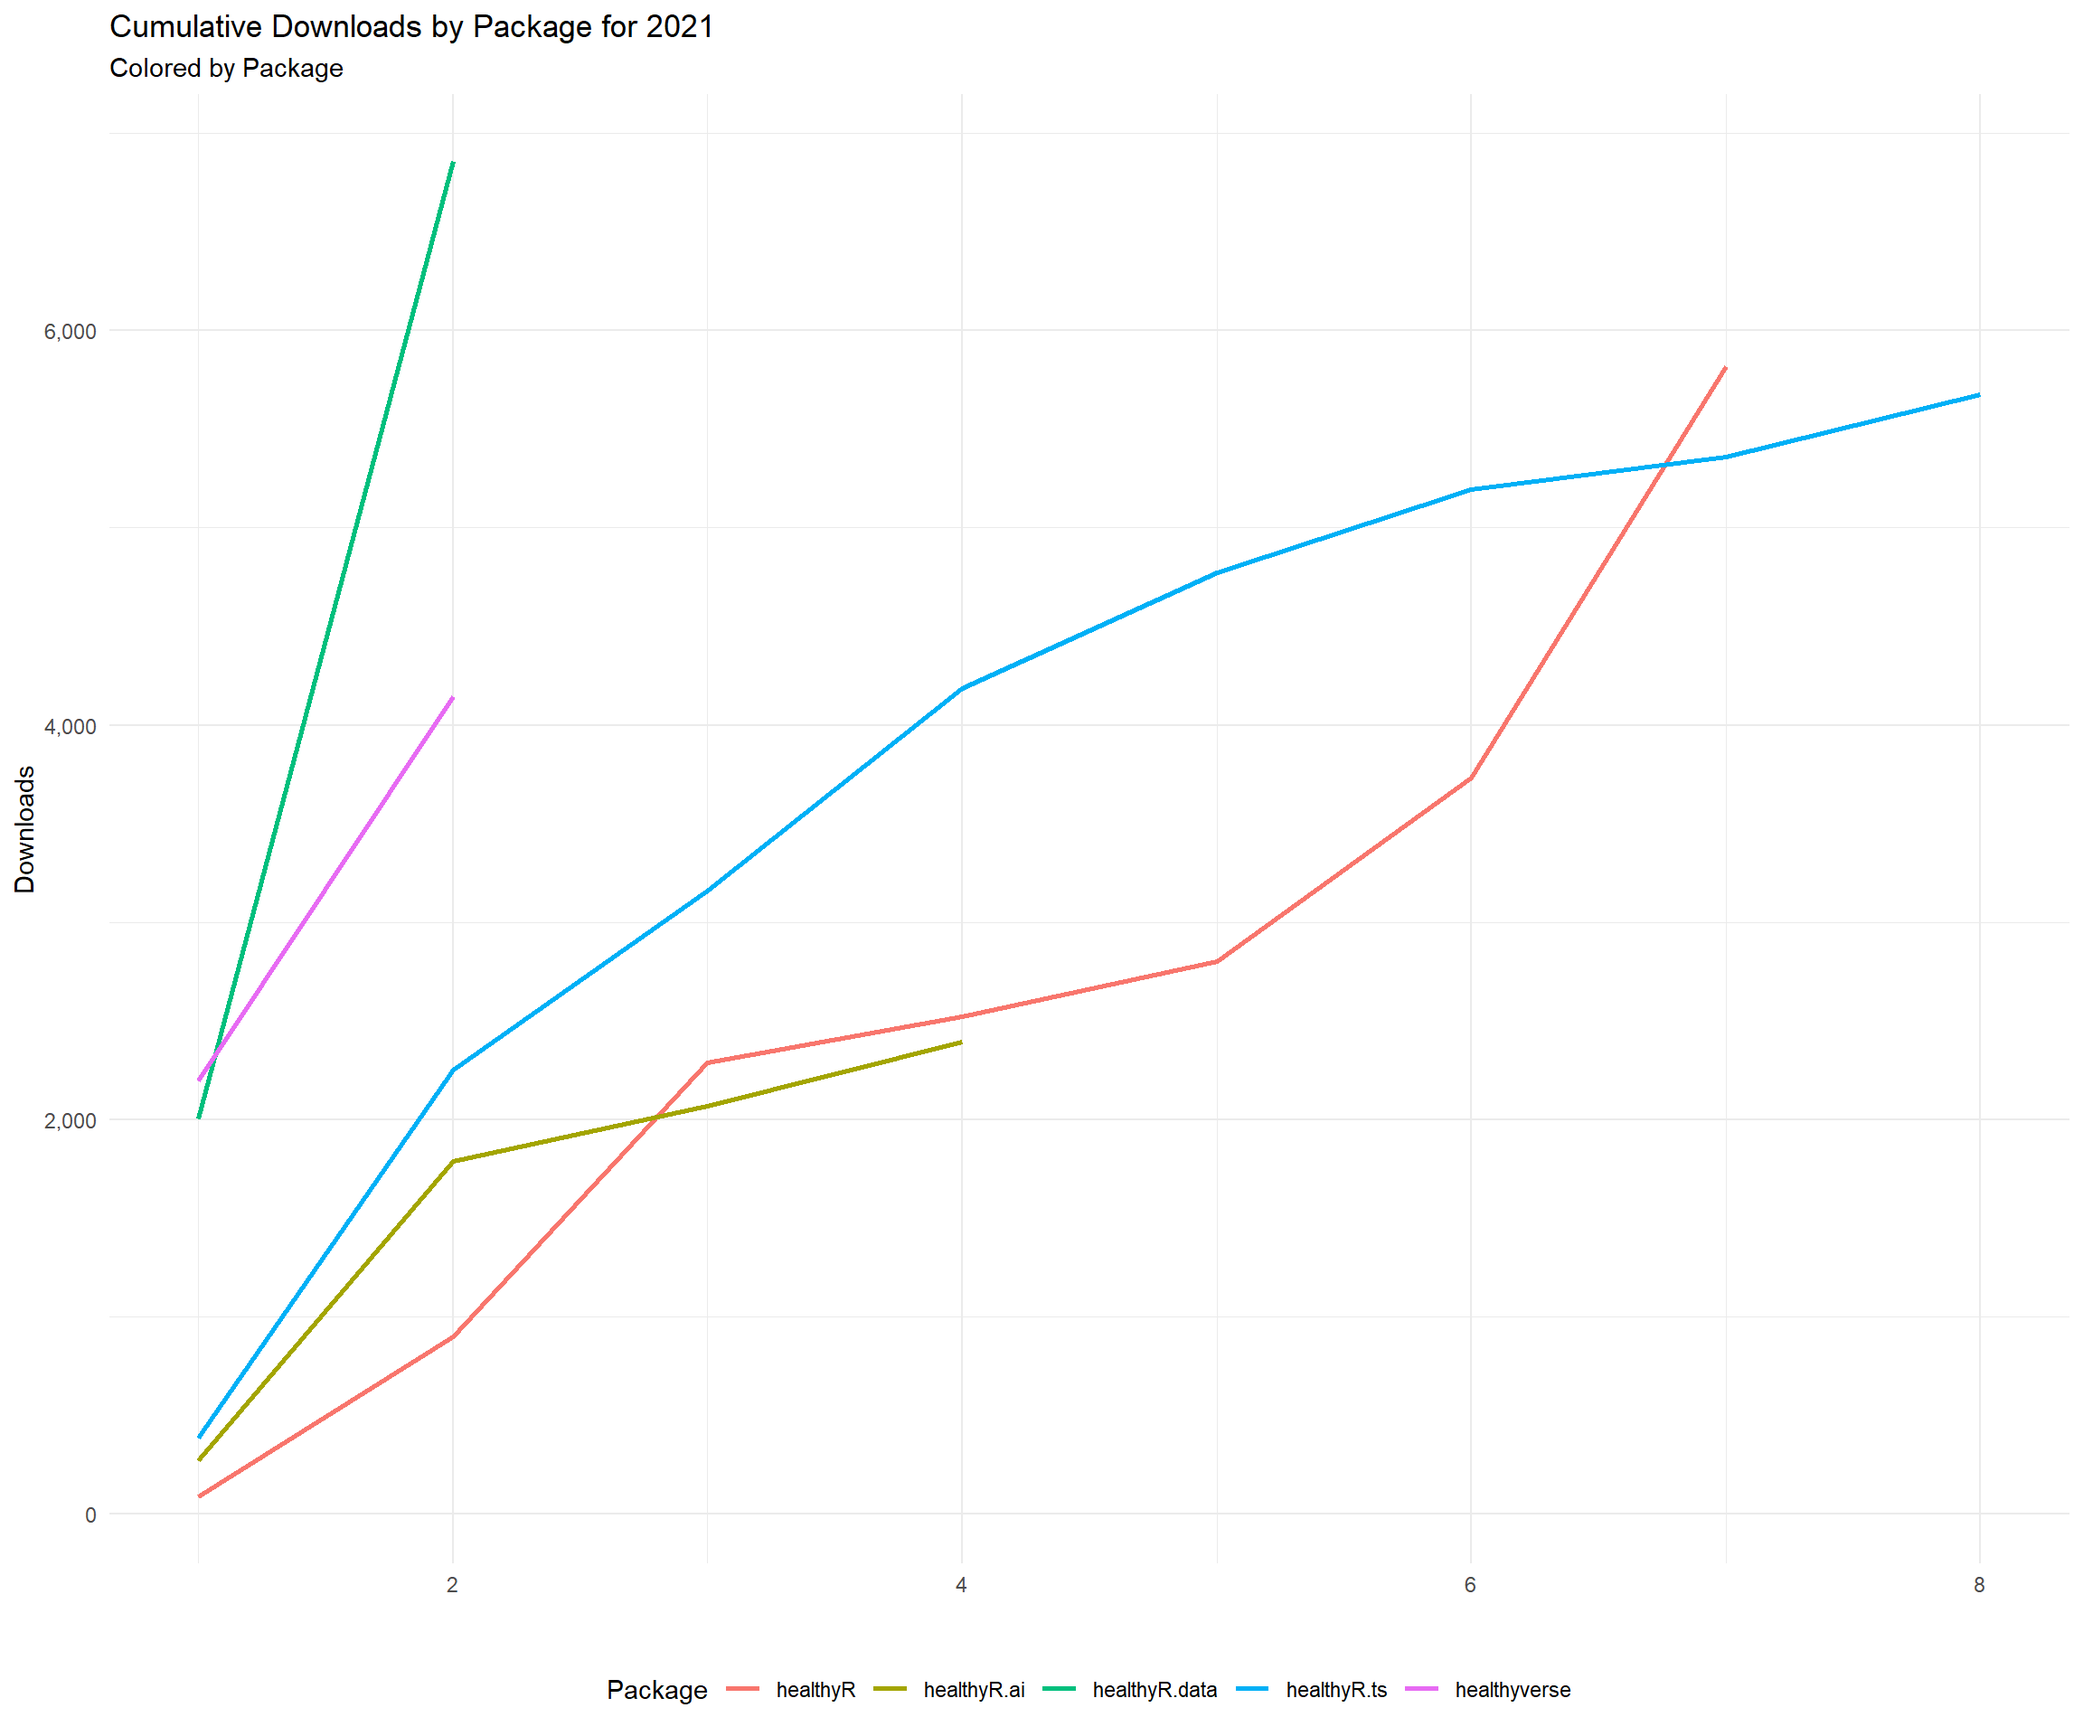
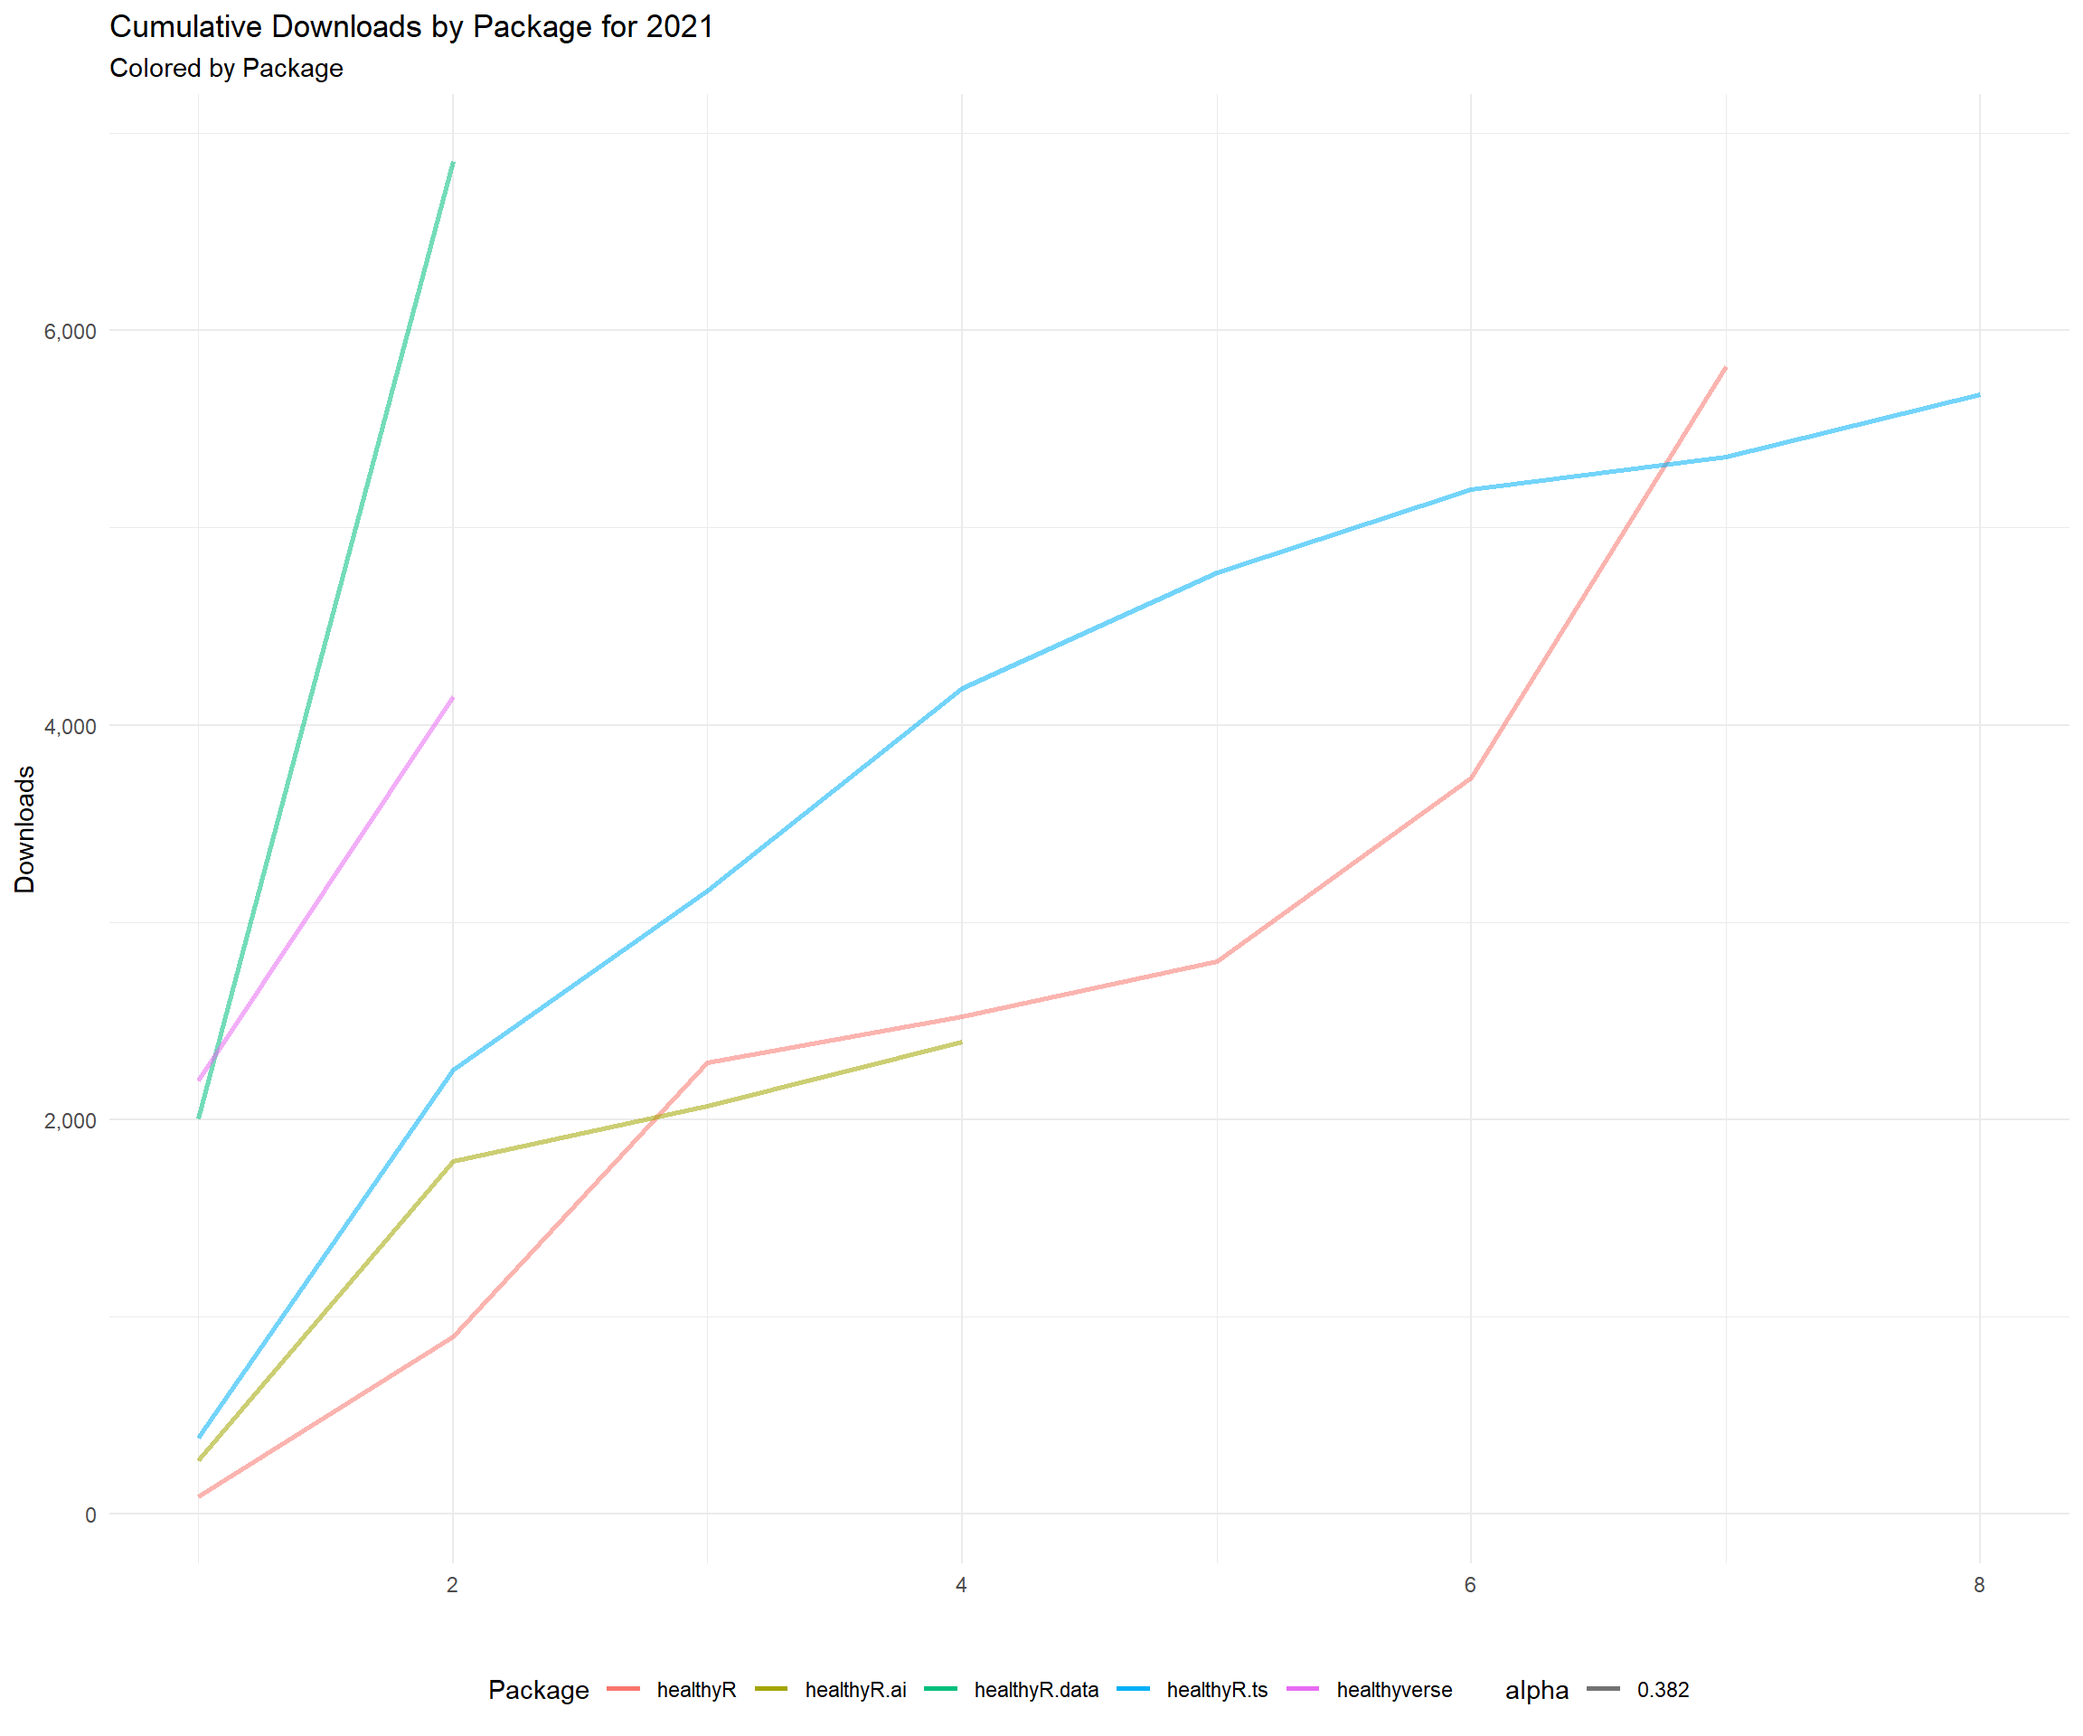
updates

diff --git a/year_review_2021.html b/year_review_2021.html
@@ -377,7 +377,7 @@ $(document).ready(function () {
 </li>
 <li class="dropdown">
   <a href="#" class="dropdown-toggle" data-toggle="dropdown" role="button" aria-expanded="false">
-    Year in Review
+    Years in Review
      
     <span class="caret"></span>
   </a>
@@ -655,8 +655,8 @@ $(document).ready(function () {
 <p>Lets graph the data out as well.</p>
 <div class="sourceCode" id="cb7"><pre class="sourceCode r"><code class="sourceCode r"><span id="cb7-1"><a href="#cb7-1" aria-hidden="true" tabindex="-1"></a>data_tbl <span class="sc">%&gt;%</span></span>
 <span id="cb7-2"><a href="#cb7-2" aria-hidden="true" tabindex="-1"></a>  <span class="fu">count</span>(package, version) <span class="sc">%&gt;%</span></span>
-<span id="cb7-3"><a href="#cb7-3" aria-hidden="true" tabindex="-1"></a>  <span class="fu">ggplot</span>(<span class="fu">aes</span>(<span class="at">x =</span> version, <span class="at">y =</span> n)) <span class="sc">+</span></span>
-<span id="cb7-4"><a href="#cb7-4" aria-hidden="true" tabindex="-1"></a>  <span class="fu">geom_col</span>(<span class="fu">aes</span>(<span class="at">group =</span> package, <span class="at">fill =</span> package, <span class="at">alpha =</span> <span class="dv">1</span><span class="fl">-.618</span>)) <span class="sc">+</span></span>
+<span id="cb7-3"><a href="#cb7-3" aria-hidden="true" tabindex="-1"></a>  <span class="fu">ggplot</span>(<span class="fu">aes</span>(<span class="at">x =</span> version, <span class="at">y =</span> n, <span class="at">alpha =</span> <span class="fl">0.382</span>)) <span class="sc">+</span></span>
+<span id="cb7-4"><a href="#cb7-4" aria-hidden="true" tabindex="-1"></a>  <span class="fu">geom_col</span>(<span class="fu">aes</span>(<span class="at">group =</span> package, <span class="at">fill =</span> package)) <span class="sc">+</span></span>
 <span id="cb7-5"><a href="#cb7-5" aria-hidden="true" tabindex="-1"></a>  <span class="fu">facet_wrap</span>(package <span class="sc">~</span>., <span class="at">ncol =</span> <span class="dv">2</span>, <span class="at">scales =</span> <span class="st">&quot;free&quot;</span>) <span class="sc">+</span></span>
 <span id="cb7-6"><a href="#cb7-6" aria-hidden="true" tabindex="-1"></a>  <span class="fu">scale_y_continuous</span>(<span class="at">labels =</span> scales<span class="sc">::</span><span class="fu">label_number</span>(<span class="at">big.mark =</span> <span class="st">&quot;,&quot;</span>)) <span class="sc">+</span></span>
 <span id="cb7-7"><a href="#cb7-7" aria-hidden="true" tabindex="-1"></a>  <span class="fu">theme_minimal</span>() <span class="sc">+</span></span>
@@ -675,8 +675,8 @@ $(document).ready(function () {
 <span id="cb8-4"><a href="#cb8-4" aria-hidden="true" tabindex="-1"></a>  <span class="fu">mutate</span>(<span class="at">cumulative_downloads =</span> <span class="fu">cumsum</span>(n)) <span class="sc">%&gt;%</span></span>
 <span id="cb8-5"><a href="#cb8-5" aria-hidden="true" tabindex="-1"></a>  <span class="fu">mutate</span>(<span class="at">record =</span> <span class="fu">row_number</span>()) <span class="sc">%&gt;%</span></span>
 <span id="cb8-6"><a href="#cb8-6" aria-hidden="true" tabindex="-1"></a>  <span class="fu">ungroup</span>() <span class="sc">%&gt;%</span></span>
-<span id="cb8-7"><a href="#cb8-7" aria-hidden="true" tabindex="-1"></a>  <span class="fu">ggplot</span>(<span class="fu">aes</span>(<span class="at">x =</span> record, <span class="at">y =</span> cumulative_downloads)) <span class="sc">+</span></span>
-<span id="cb8-8"><a href="#cb8-8" aria-hidden="true" tabindex="-1"></a>  <span class="fu">geom_col</span>(<span class="fu">aes</span>(<span class="at">group =</span> package, <span class="at">fill =</span> package, <span class="at">alpha =</span> <span class="dv">1</span><span class="fl">-.618</span>)) <span class="sc">+</span></span>
+<span id="cb8-7"><a href="#cb8-7" aria-hidden="true" tabindex="-1"></a>  <span class="fu">ggplot</span>(<span class="fu">aes</span>(<span class="at">x =</span> record, <span class="at">y =</span> cumulative_downloads, <span class="at">alpha =</span> <span class="fl">0.382</span>)) <span class="sc">+</span></span>
+<span id="cb8-8"><a href="#cb8-8" aria-hidden="true" tabindex="-1"></a>  <span class="fu">geom_col</span>(<span class="fu">aes</span>(<span class="at">group =</span> package, <span class="at">fill =</span> package)) <span class="sc">+</span></span>
 <span id="cb8-9"><a href="#cb8-9" aria-hidden="true" tabindex="-1"></a>  <span class="fu">facet_wrap</span>(package <span class="sc">~</span>., <span class="at">ncol =</span> <span class="dv">2</span>, <span class="at">scales =</span> <span class="st">&quot;free&quot;</span>) <span class="sc">+</span></span>
 <span id="cb8-10"><a href="#cb8-10" aria-hidden="true" tabindex="-1"></a>  <span class="fu">scale_y_continuous</span>(<span class="at">labels =</span> scales<span class="sc">::</span><span class="fu">label_number</span>(<span class="at">big.mark =</span> <span class="st">&quot;,&quot;</span>)) <span class="sc">+</span></span>
 <span id="cb8-11"><a href="#cb8-11" aria-hidden="true" tabindex="-1"></a>  <span class="fu">theme_minimal</span>() <span class="sc">+</span></span>
@@ -695,7 +695,7 @@ $(document).ready(function () {
 <span id="cb9-4"><a href="#cb9-4" aria-hidden="true" tabindex="-1"></a>  <span class="fu">mutate</span>(<span class="at">cumulative_downloads =</span> <span class="fu">cumsum</span>(n)) <span class="sc">%&gt;%</span></span>
 <span id="cb9-5"><a href="#cb9-5" aria-hidden="true" tabindex="-1"></a>  <span class="fu">mutate</span>(<span class="at">record =</span> <span class="fu">row_number</span>()) <span class="sc">%&gt;%</span></span>
 <span id="cb9-6"><a href="#cb9-6" aria-hidden="true" tabindex="-1"></a>  <span class="fu">ungroup</span>() <span class="sc">%&gt;%</span></span>
-<span id="cb9-7"><a href="#cb9-7" aria-hidden="true" tabindex="-1"></a>  <span class="fu">ggplot</span>(<span class="fu">aes</span>(<span class="at">x =</span> record, <span class="at">y =</span> cumulative_downloads)) <span class="sc">+</span></span>
+<span id="cb9-7"><a href="#cb9-7" aria-hidden="true" tabindex="-1"></a>  <span class="fu">ggplot</span>(<span class="fu">aes</span>(<span class="at">x =</span> record, <span class="at">y =</span> cumulative_downloads, <span class="at">alpha =</span> <span class="fl">0.382</span>)) <span class="sc">+</span></span>
 <span id="cb9-8"><a href="#cb9-8" aria-hidden="true" tabindex="-1"></a>  <span class="fu">geom_line</span>(<span class="fu">aes</span>(<span class="at">color =</span> package, <span class="at">group =</span> package), <span class="at">size =</span> <span class="dv">1</span>) <span class="sc">+</span></span>
 <span id="cb9-9"><a href="#cb9-9" aria-hidden="true" tabindex="-1"></a>  <span class="fu">scale_y_continuous</span>(<span class="at">labels =</span> scales<span class="sc">::</span><span class="fu">label_number</span>(<span class="at">big.mark =</span> <span class="st">&quot;,&quot;</span>)) <span class="sc">+</span></span>
 <span id="cb9-10"><a href="#cb9-10" aria-hidden="true" tabindex="-1"></a>  <span class="fu">theme_minimal</span>() <span class="sc">+</span></span>

diff --git a/healthyr.html b/healthyr.html
@@ -270,7 +270,7 @@ $(document).ready(function () {
 </li>
 <li class="dropdown">
   <a href="#" class="dropdown-toggle" data-toggle="dropdown" role="button" aria-expanded="false">
-    Year in Review
+    Years in Review
      
     <span class="caret"></span>
   </a>

diff --git a/healthyrai.html b/healthyrai.html
@@ -270,7 +270,7 @@ $(document).ready(function () {
 </li>
 <li class="dropdown">
   <a href="#" class="dropdown-toggle" data-toggle="dropdown" role="button" aria-expanded="false">
-    Year in Review
+    Years in Review
      
     <span class="caret"></span>
   </a>

diff --git a/healthyrdata.html b/healthyrdata.html
@@ -270,7 +270,7 @@ $(document).ready(function () {
 </li>
 <li class="dropdown">
   <a href="#" class="dropdown-toggle" data-toggle="dropdown" role="button" aria-expanded="false">
-    Year in Review
+    Years in Review
      
     <span class="caret"></span>
   </a>

diff --git a/healthyrts.html b/healthyrts.html
@@ -270,7 +270,7 @@ $(document).ready(function () {
 </li>
 <li class="dropdown">
   <a href="#" class="dropdown-toggle" data-toggle="dropdown" role="button" aria-expanded="false">
-    Year in Review
+    Years in Review
      
     <span class="caret"></span>
   </a>

diff --git a/index.html b/index.html
@@ -274,7 +274,7 @@ $(document).ready(function () {
 </li>
 <li class="dropdown">
   <a href="#" class="dropdown-toggle" data-toggle="dropdown" role="button" aria-expanded="false">
-    Year in Review
+    Years in Review
      
     <span class="caret"></span>
   </a>

diff --git a/software.html b/software.html
@@ -270,7 +270,7 @@ $(document).ready(function () {
 </li>
 <li class="dropdown">
   <a href="#" class="dropdown-toggle" data-toggle="dropdown" role="button" aria-expanded="false">
-    Year in Review
+    Years in Review
      
     <span class="caret"></span>
   </a>
